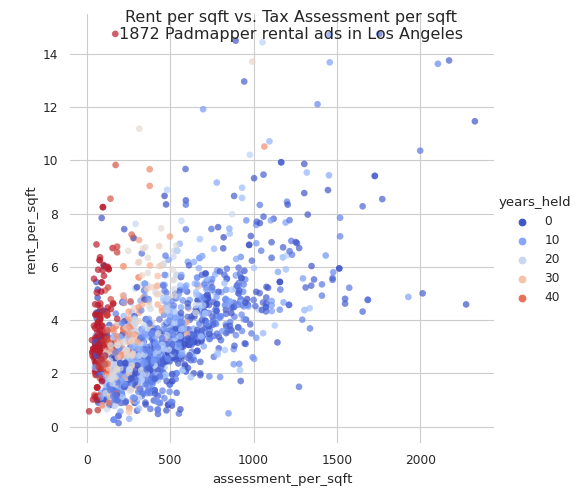
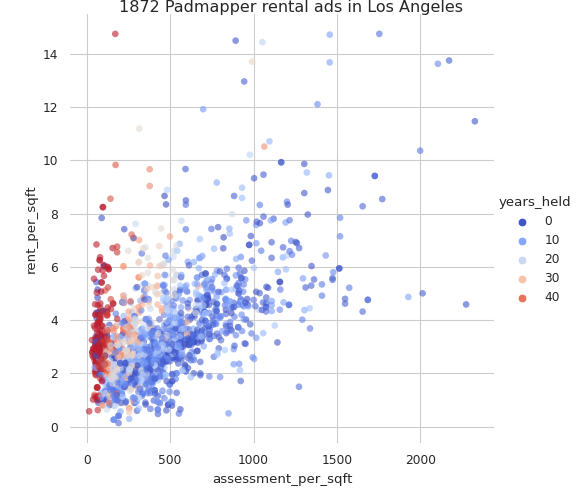
charts

Changed region(s): [[0.1856, 0.0, 0.8041, 0.09]]

diff --git a/assets/padmapper/padmapper_charts.py b/assets/padmapper/padmapper_charts.py
@@ -88,12 +88,13 @@ def plot_scatter(df):
         y="rent_per_sqft",
         hue="years_held",
         linewidth=0,
-        alpha=0.7,
+        alpha=0.6,
         palette=cmap,
     )
     g.despine(left=True, bottom=True)
     plt.suptitle(
-        f"Rent per sqft vs. Tax Assessment per sqft\n{len(df)} Padmapper rental ads in Los Angeles"
+        f"Rent per sqft vs. Tax Assessment per sqft\n{len(df)} Padmapper rental ads in Los Angeles",
+        y=1.035
     )
     output = os.path.join(
         os.environ["HOME"], "ryancompton.net/assets/pix/tax_vs_rent_padmapper.png"
